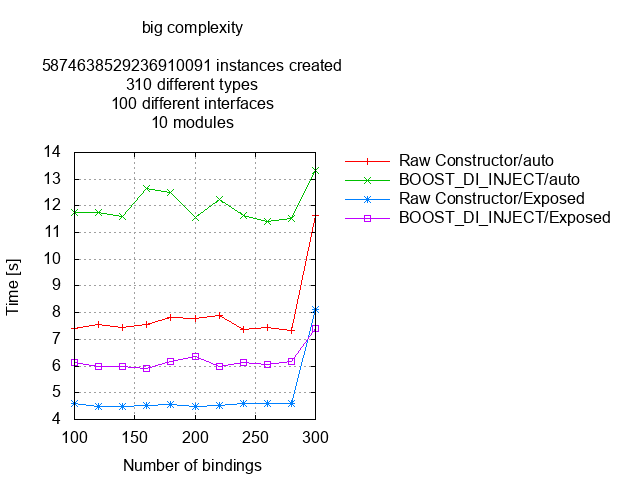
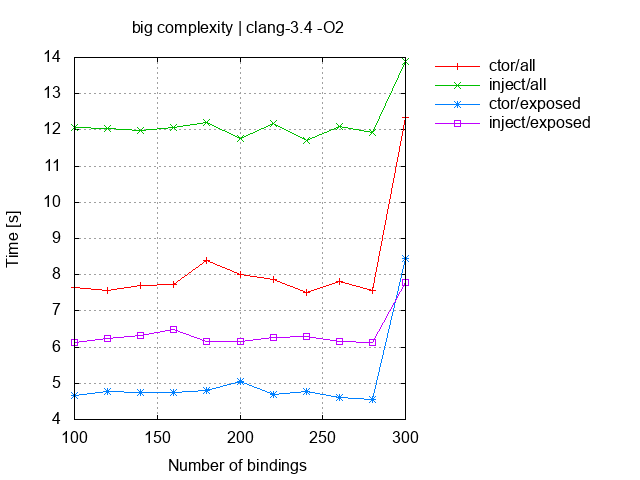
readme

diff --git a/README.md b/README.md
@@ -862,16 +862,41 @@ int main() {                            | lea    0x30(%rsp),%rsi                
 
 *
 
-> **[Compile-time performance (time clang++ -O2)](http://krzysztof-jusiak.github.io/di/boost/libs/di/doc/html/di/performance.html)**
+> **[Compile-time performance](http://krzysztof-jusiak.github.io/di/boost/libs/di/doc/html/di/performance.html)**
+* Environment
+    * x86_64 Intel(R) Core(TM) i7-4770 CPU @ 3.40GHz GenuineIntel GNU/Linux
 ```cpp
 Boost.DI header                         | Time [s] / Size [kb]
 ----------------------------------------|-----------------------------------------
 #include <boost/di.hpp>                 | 0.25s / 6.2 kb
 int main() { }                          |
 ```
+```cpp
+legend:
+    ctor    = raw constructor: c(int, int);
+    inject  = inject constructor: BOOST_DI_INJECT(c, int, int);
+    all     = all types exposed from module: auto configure();
+    exposed = one type exposed from module: di::injector<c> configure();
+```
 [![small complexity](https://raw.githubusercontent.com/krzysztof-jusiak/di/cpp14/doc/images/small_complexity.png)]()
+```cpp
+* 4248897537 instances created
+* 132 different types
+* 10 modules
+```
 [![medium complexity](https://raw.githubusercontent.com/krzysztof-jusiak/di/cpp14/doc/images/medium_complexity.png)]()
+```cpp
+* 1862039751439806464 instances created
+* 200 different types
+* 10 modules
+```
 [![big complexity](https://raw.githubusercontent.com/krzysztof-jusiak/di/cpp14/doc/images/big_complexity.png)]()
+```cpp
+* 5874638529236910091 instances created
+* 310 different types
+* 100 different interfaces
+* 10 modules
+```
 
 *
 
